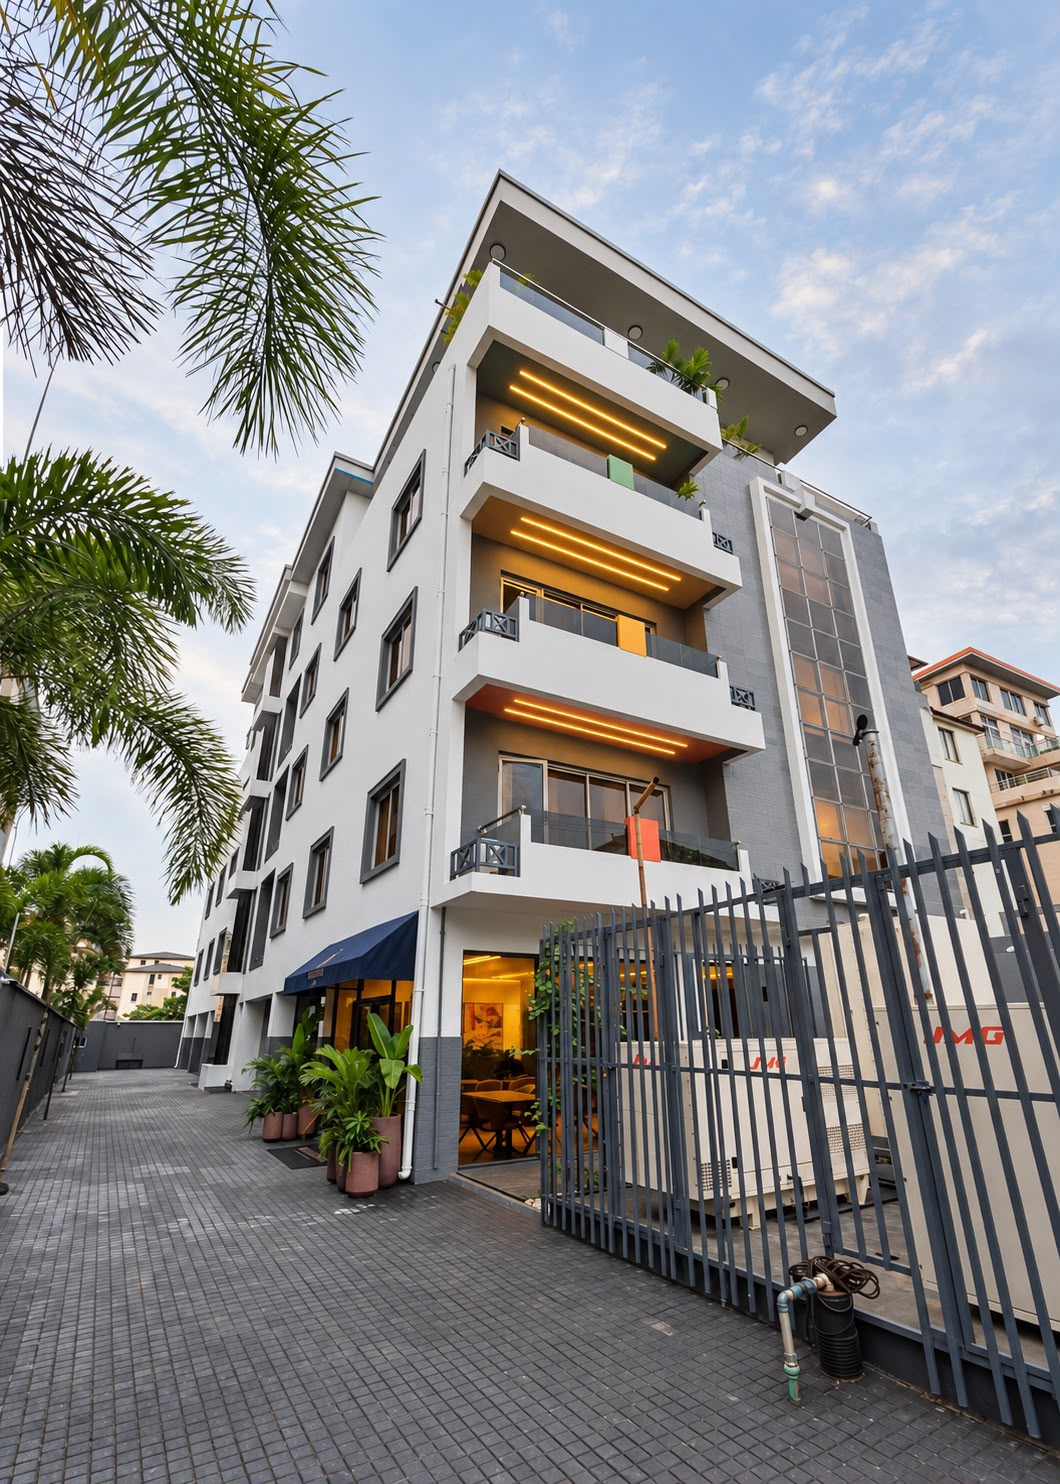
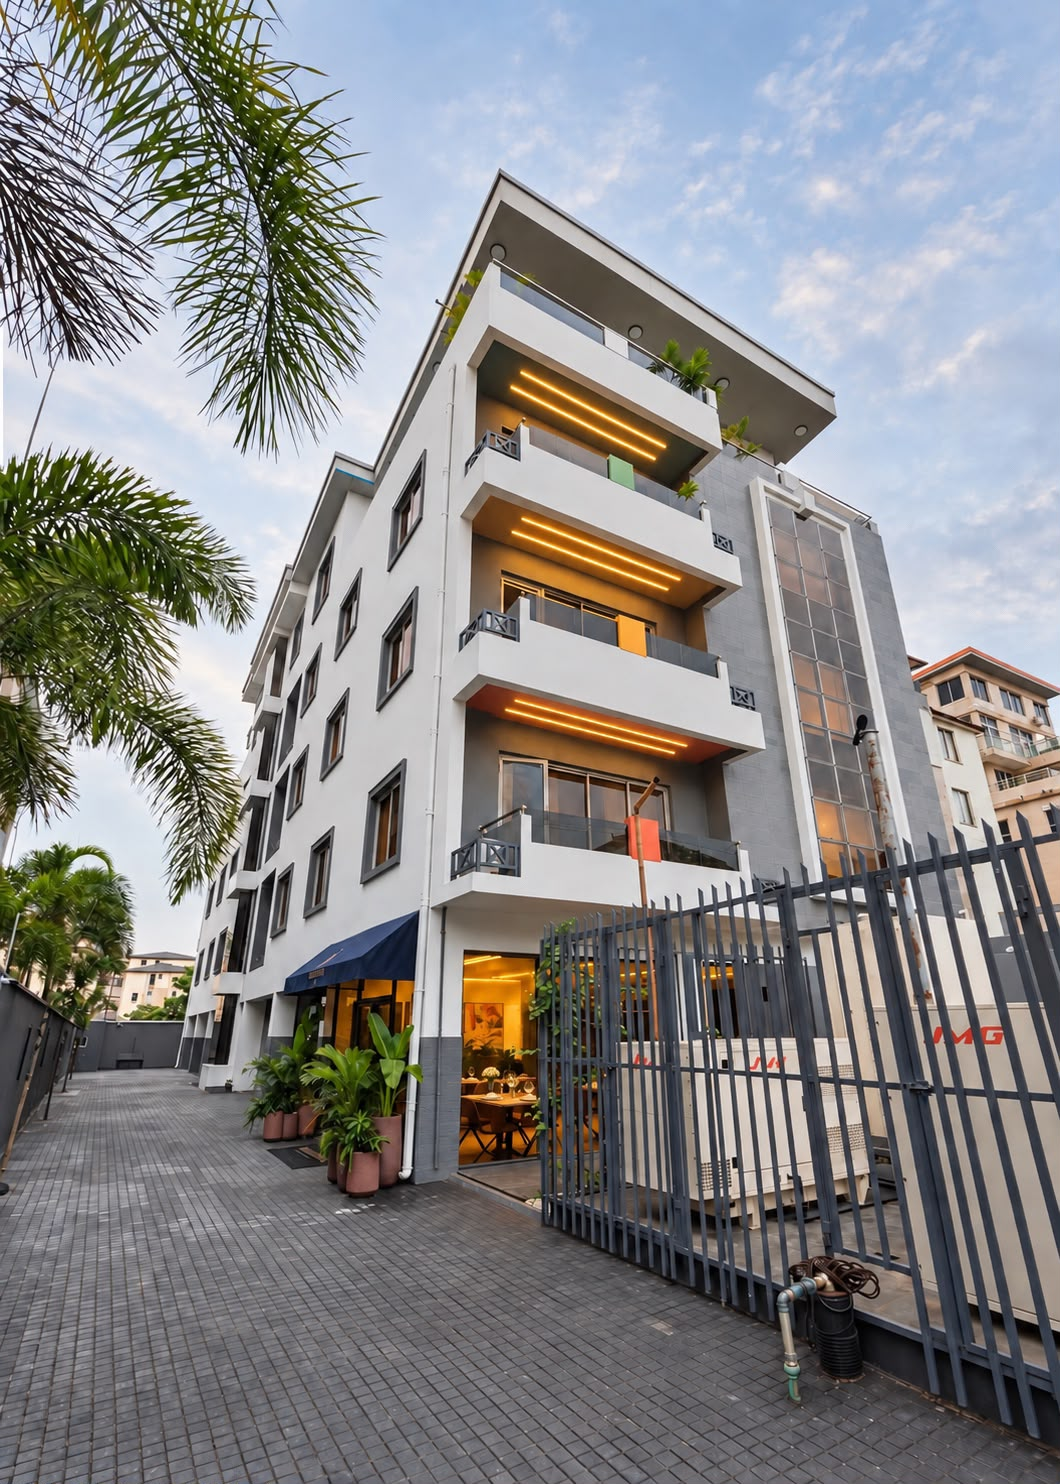
fix

diff --git a/resources/css/app.css b/resources/css/app.css
@@ -443,8 +443,18 @@ body.menu-open, body.gallery-modal-open { overflow: hidden; }
 .residence-card-highlights .is-parking { color: #258452; }
 .residence-card-highlights .is-parking svg { color: currentColor; }
 .residence-card-details { display: grid; margin-top: .82rem; gap: .62rem; font-family: "Galaxie Polaris", "Instrument Sans", Arial, sans-serif; }
-.residence-card-details > span { display: inline-flex; color: #22283a; align-items: center; gap: .35rem; font-size: .72rem; }
-.residence-card-details > span svg { width: 1rem; height: 1rem; flex: 0 0 1rem; }
+.refund-policy-preview { color: #22283a; font-size: .72rem; }
+.refund-policy-preview summary { display: inline-flex; width: fit-content; align-items: center; gap: .35rem; cursor: pointer; list-style: none; }
+.refund-policy-preview summary::-webkit-details-marker { display: none; }
+.refund-policy-preview summary svg { width: 1rem; height: 1rem; flex: 0 0 1rem; transition: color .18s ease, transform .18s ease; }
+.refund-policy-preview summary:hover svg, .refund-policy-preview summary:focus-visible svg, .refund-policy-preview[open] summary svg { color: #1769e8; transform: scale(1.08); }
+.refund-policy-preview summary:focus-visible { border-radius: 3px; outline: 2px solid #1769e8; outline-offset: 3px; }
+.refund-policy-highlights { margin-top: .65rem; padding: .8rem .85rem; border: 1px solid rgba(24,38,74,.14); border-radius: 8px; color: var(--ink); background: #f7f5ef; box-shadow: 0 10px 24px rgba(6,17,46,.08); }
+.refund-policy-highlights > strong { display: block; margin-bottom: .5rem; color: var(--gold); font-size: .67rem; letter-spacing: .08em; text-transform: uppercase; }
+.refund-policy-highlights ul { display: grid; margin: 0; padding-left: 1rem; gap: .3rem; font-size: .67rem; line-height: 1.4; }
+.refund-policy-highlights p { margin: .6rem 0 0; color: var(--soft-ink); font-size: .62rem; letter-spacing: 0; line-height: 1.4; text-transform: none; }
+.refund-policy-highlights a { display: inline-flex; margin-top: .65rem; color: #1769e8; align-items: center; gap: .3rem; font-size: .67rem; font-weight: 700; text-decoration: none; }
+.refund-policy-highlights a:hover, .refund-policy-highlights a:focus-visible { color: #0b4fb9; text-decoration: underline; }
 .residence-card-details > button { display: inline-flex; width: fit-content; padding: 0; border: 0; color: #1769e8; background: transparent; align-items: center; gap: .32rem; font: inherit; font-size: .76rem; text-decoration: none; cursor: pointer; }
 .residence-card-details > button:hover, .residence-card-details > button:focus-visible { color: #0b4fb9; }
 .residence-card-details > button svg { width: .9rem; height: .9rem; stroke-width: 2.2; }

diff --git a/resources/views/components/apartment-card.blade.php b/resources/views/components/apartment-card.blade.php
@@ -115,7 +115,8 @@
         ?: $apartment->property?->toilets
         ?: 3.5;
     $bathrooms = rtrim(rtrim(number_format((float) $bathroomValue, 1), '0'), '.');
-    $refundability = 'Refundable 14 days or more before check-in';
+    $refundability = 'Partial Refund';
+    $cancellationPolicyUrl = route('information.show', ['information' => 'cancellation-refund-policy']);
     $modalId = 'apartment-card-modal-'.$apartment->id;
     $hasStayDates = filled($filters['checkin'] ?? null) && filled($filters['checkout'] ?? null);
     $bookUrl = $hasStayDates
@@ -157,7 +158,23 @@
             @if ($wifiAmenity || filled($apartment->wifi_ssid))<li><x-amenity-icon name="wifi" />Free WiFi</li>@endif
         </ul>
         <div class="residence-card-details">
-            <span>{{ $refundability }} <x-amenity-icon name="info" /></span>
+            <details class="refund-policy-preview">
+                <summary aria-label="Show cancellation and refund policy highlights" title="Cancellation and refund policy highlights">
+                    <span>{{ $refundability }}</span>
+                    <x-amenity-icon name="info" />
+                </summary>
+                <div class="refund-policy-highlights">
+                    <strong>Cancellation highlights</strong>
+                    <ul>
+                        <li><b>14+ days:</b> 50% accommodation refund</li>
+                        <li><b>7–13 days:</b> 50% accommodation refund</li>
+                        <li><b>Less than 7 days:</b> No refund</li>
+                        <li><b>No-show:</b> Full booking amount is forfeited</li>
+                    </ul>
+                    <p>Non-refundable bank, card-processing, currency-conversion, or transfer charges may be deducted.</p>
+                    <a href="{{ $cancellationPolicyUrl }}">Read full policy <span aria-hidden="true">→</span></a>
+                </div>
+            </details>
             <button type="button" data-card-modal-open aria-controls="{{ $modalId }}">More details <x-amenity-icon name="chevron-right" /></button>
         </div>
         <div class="residence-card-footer">
@@ -270,6 +287,11 @@
             };
 
             document.addEventListener('click', (event) => {
+                const clickedRefundPreview = event.target.closest('.refund-policy-preview');
+                document.querySelectorAll('.refund-policy-preview[open]').forEach((preview) => {
+                    if (preview !== clickedRefundPreview) preview.removeAttribute('open');
+                });
+
                 const modalSliderButton = event.target.closest('[data-modal-previous], [data-modal-next]');
                 if (modalSliderButton) {
                     event.preventDefault();
@@ -324,6 +346,11 @@
                     const clickedInside = event.clientX >= bounds.left && event.clientX <= bounds.right && event.clientY >= bounds.top && event.clientY <= bounds.bottom;
                     if (!clickedInside) closeModal(event.target);
                 }
+            });
+
+            document.addEventListener('keydown', (event) => {
+                if (event.key !== 'Escape') return;
+                document.querySelectorAll('.refund-policy-preview[open]').forEach((preview) => preview.removeAttribute('open'));
             });
 
             document.addEventListener('cancel', (event) => {

diff --git a/tests/Feature/HomeAvailabilitySearchTest.php b/tests/Feature/HomeAvailabilitySearchTest.php
@@ -2,6 +2,7 @@
 
 namespace Tests\Feature;
 
+use App\Models\Apartment;
 use Illuminate\Foundation\Testing\RefreshDatabase;
 use Tests\TestCase;
 
@@ -14,6 +15,21 @@ class HomeAvailabilitySearchTest extends TestCase
         $this->get(route('home', ['live' => 1]))
             ->assertOk()
             ->assertSee('1 Person(s), 2 rooms');
+    }
+
+    public function test_home_apartments_follow_the_configured_sort_order(): void
+    {
+        Apartment::create(['name' => 'Third Residence', 'slug' => 'third-residence', 'price' => 300, 'sort_order' => 3]);
+        Apartment::create(['name' => 'First Residence', 'slug' => 'first-residence', 'price' => 500, 'sort_order' => 1]);
+        Apartment::create(['name' => 'Second Residence', 'slug' => 'second-residence', 'price' => 400, 'sort_order' => 2]);
+
+        $this->get(route('home', ['live' => 1]))
+            ->assertOk()
+            ->assertSeeInOrder([
+                'First Residence',
+                'Second Residence',
+                'Third Residence',
+            ]);
     }
 
     public function test_home_search_requires_checkin_and_checkout_dates(): void

diff --git a/app/Http/Controllers/HomeController.php b/app/Http/Controllers/HomeController.php
@@ -100,7 +100,8 @@ class HomeController extends Controller
 
         $apartments = Apartment::query()
             ->with(['images', 'attributes.parent'])
-            ->inRandomOrder()
+            ->orderBy('sort_order')
+            ->orderBy('id')
             ->limit(4)
             ->get();
 
